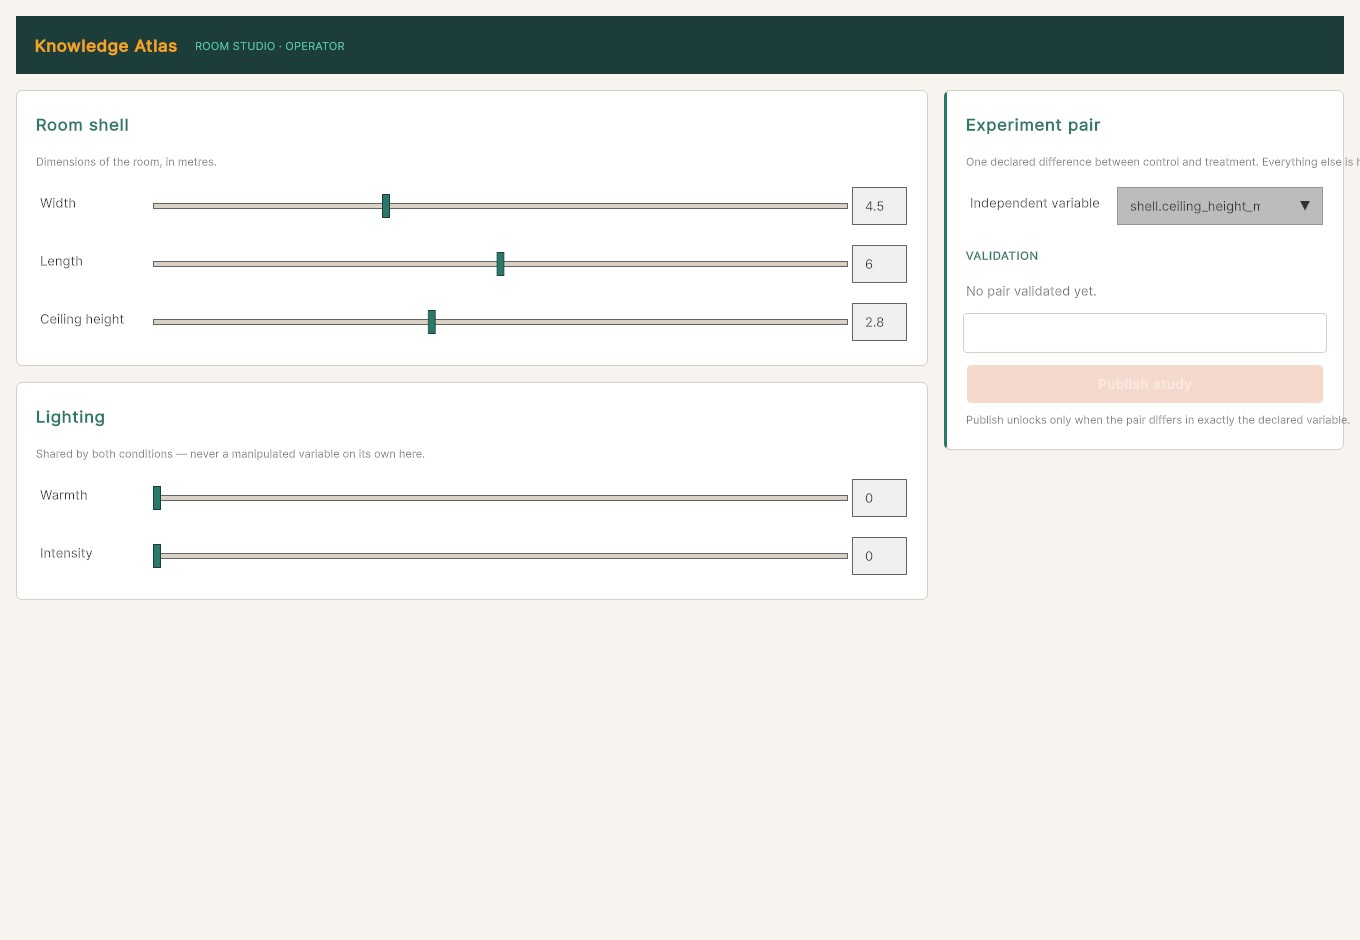
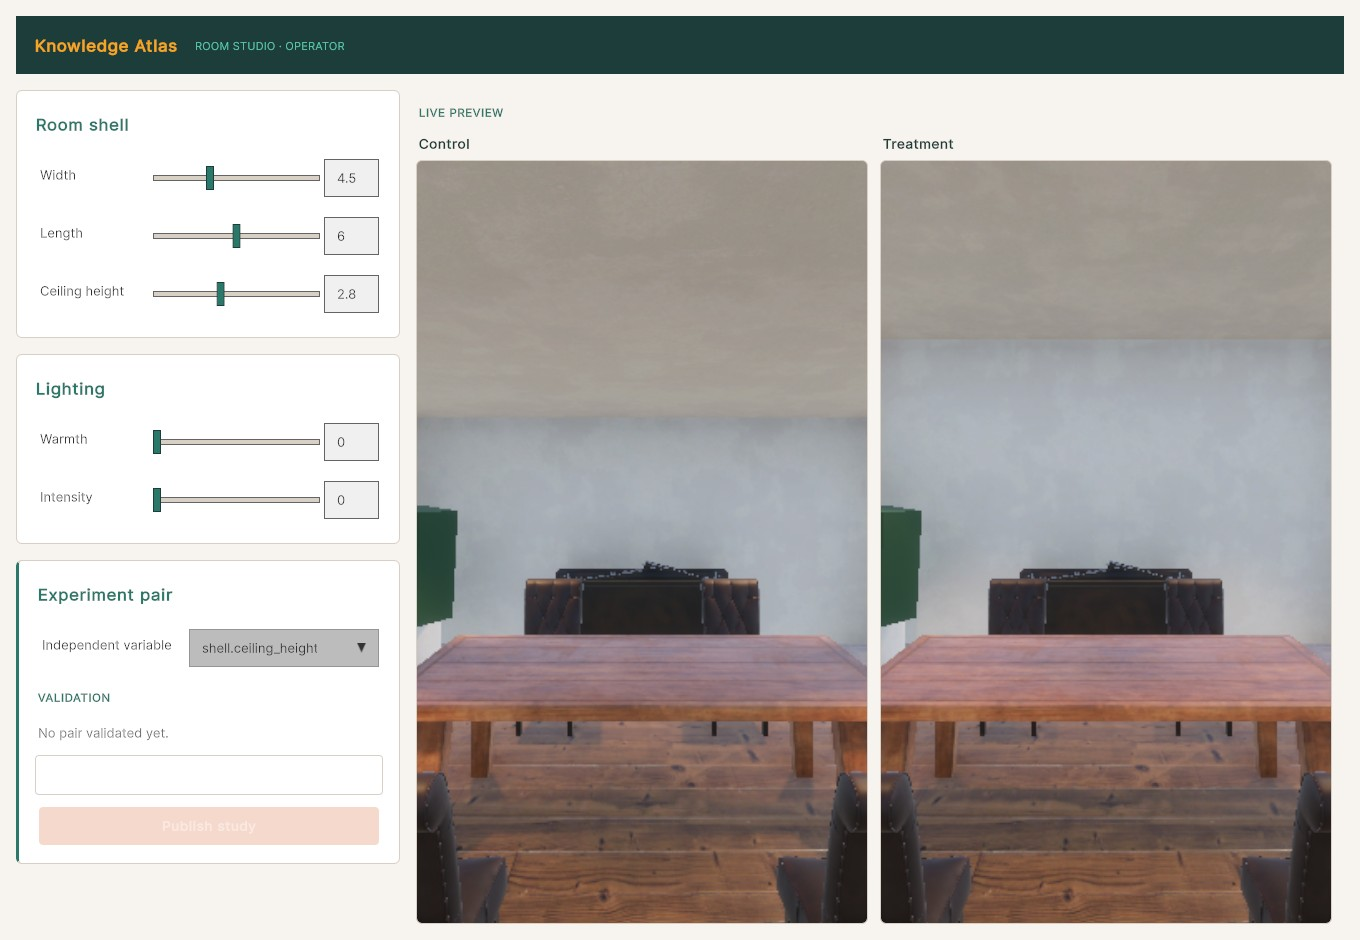
ui: live side-by-side room preview in the operator panel
The panel now shows what the old IMGUI studio did and the foundation was
missing: control | treatment preview panes that render the real generated
rooms, so the operator sees changes live. PreviewRenderer builds a spec on
its own layer + camera -> RenderTexture; the panel only displays the RTs
(SetPreviews), staying a pure view. Layout reflows to a fixed control rail +
a flex preview column. Previews drop the directional-shadow (HDRP allows one
directional shadow scene-wide; two live rooms would fight the atlas) — spot
shadows still ground them. Play-mode capture proves it renders; EditMode 92/92.

diff --git a/unity/Assets/RoomGen/UI/Operator/PreviewRenderer.cs b/unity/Assets/RoomGen/UI/Operator/PreviewRenderer.cs
@@ -1,0 +1,76 @@
+using RoomGen.Contracts;
+using RoomGen.Generation;
+using UnityEngine;
+
+namespace RoomGen.UI
+{
+    /// <summary>
+    /// Renders one RoomSpec to a RenderTexture for an operator preview pane: a generator + a camera on
+    /// a dedicated layer, rendered on demand. Two of these (control + treatment) drive the side-by-side
+    /// live preview — the panel VIEW stays pure and only displays the textures.
+    ///
+    /// This is the composition point where the UI surface meets the generator (E1). It uses the
+    /// generator directly for a responsive live feed rather than round-tripping screenshots through the
+    /// seam; if strict lane-purity is wanted later it can move to an integration assembly without
+    /// changing the panel. Camera pose matches the legacy IMGUI studio's preview.
+    /// </summary>
+    public sealed class PreviewRenderer
+    {
+        public RenderTexture Texture { get; }
+
+        readonly GameObject _root;
+        readonly RoomGenerator _generator;
+        readonly Camera _camera;
+
+        public PreviewRenderer(string label, int layer, int width = 720, int height = 460)
+        {
+            Texture = new RenderTexture(width, height, 24, RenderTextureFormat.ARGB32)
+            {
+                name = label + " Preview RT",
+                antiAliasing = 2
+            };
+            Texture.Create();
+
+            _root = new GameObject("Preview [" + label + "]");
+            var genGo = new GameObject("Generator");
+            genGo.transform.SetParent(_root.transform, false);
+            _generator = genGo.AddComponent<RoomGenerator>();
+            _generator.SetGeneratedLayer(layer);
+
+            var camGo = new GameObject("Camera");
+            camGo.transform.SetParent(_root.transform, false);
+            _camera = camGo.AddComponent<Camera>();
+            _camera.cullingMask = 1 << layer;          // see only this preview's room
+            _camera.targetTexture = Texture;
+            _camera.clearFlags = CameraClearFlags.SolidColor;
+            _camera.backgroundColor = new Color(0.055f, 0.06f, 0.065f);
+            _camera.fieldOfView = 72f;
+            _camera.nearClipPlane = 0.05f;
+            _camera.farClipPlane = 25f;
+            _camera.transform.position = new Vector3(0f, 1.58f, 2.48f);
+            _camera.transform.LookAt(new Vector3(0f, 1.32f, -0.55f));
+        }
+
+        /// <summary>Rebuild the room from the spec and repaint the texture.</summary>
+        public void Render(RoomSpec spec)
+        {
+            _generator.Build(spec);
+
+            // HDRP allows only ONE shadow-casting directional light across the whole scene, but the
+            // studio shows two rooms (control + treatment) at once, each with a sun. Drop the
+            // directional shadow in previews (the recessed-spot shadows still ground the room) so two
+            // live panes don't fight over the single directional shadow atlas.
+            foreach (var light in _root.GetComponentsInChildren<Light>())
+                if (light.type == LightType.Directional)
+                    light.shadows = LightShadows.None;
+
+            _camera.Render();
+        }
+
+        public void Dispose()
+        {
+            if (_root != null) Object.Destroy(_root);
+            if (Texture != null) { Texture.Release(); Object.Destroy(Texture); }
+        }
+    }
+}

diff --git a/unity/Assets/RoomGen/Tests/PlayMode/OperatorPanelCaptureTests.cs b/unity/Assets/RoomGen/Tests/PlayMode/OperatorPanelCaptureTests.cs
@@ -1,6 +1,7 @@
 using System.Collections;
 using System.IO;
 using NUnit.Framework;
+using RoomGen.Contracts;
 using RoomGen.Testing;
 using RoomGen.UI;
 using UnityEngine;
@@ -22,6 +23,10 @@ namespace RoomGen.Tests.PlayMode
         public IEnumerator Renders_the_operator_panel_to_a_png()
         {
 #if UNITY_EDITOR
+            // This is a rendering capture, not a logic test: tolerate benign HDRP batchmode log noise
+            // (info-queue, atlas warnings) rather than failing on an unexpected engine log line.
+            LogAssert.ignoreFailingMessages = true;
+
             const int w = 1360, h = 940;
             var rt = new RenderTexture(w, h, 24, RenderTextureFormat.ARGB32);
             rt.Create();
@@ -54,6 +59,19 @@ namespace RoomGen.Tests.PlayMode
             var preset = Resources.Load<TextAsset>("RoomGen/dining_room.preset");
             if (preset != null) { vm.LoadPreset(preset.text); OperatorPanelController.Bind(root, vm); }
 
+            // Live preview: build the control + treatment rooms and feed them into the panes.
+            PreviewRenderer previewControl = null, previewTreatment = null;
+            var pairAsset = Resources.Load<TextAsset>("RoomGen/Examples/ceiling-height-pair");
+            if (pairAsset != null)
+            {
+                var pair = RoomJson.Deserialize<ConditionPairSpec>(pairAsset.text);
+                previewControl = new PreviewRenderer("Control", 8);
+                previewTreatment = new PreviewRenderer("Treatment", 9);
+                previewControl.Render(pair.Control);
+                previewTreatment.Render(pair.Treatment);
+                OperatorPanelController.SetPreviews(root, previewControl.Texture, previewTreatment.Texture);
+            }
+
             for (var i = 0; i < 12; i++) yield return null; // let the player loop lay out + paint
 
             var prev = RenderTexture.active;
@@ -78,6 +96,8 @@ namespace RoomGen.Tests.PlayMode
             Object.Destroy(ps);
             rt.Release();
             Object.Destroy(rt);
+            previewControl?.Dispose();
+            previewTreatment?.Dispose();
 
             Assert.Greater(mean, 0.05, "the panel rendered black — paint did not reach the target texture");
 #else

diff --git a/unity/Assets/RoomGen/UI/Operator/OperatorPanelController.cs b/unity/Assets/RoomGen/UI/Operator/OperatorPanelController.cs
@@ -101,6 +101,18 @@ namespace RoomGen.UI
             if (publish != null) publish.SetEnabled(vm.PublishEnabled);
         }
 
+        /// <summary>
+        /// Point the two live-preview panes at the control/treatment RenderTextures (from
+        /// PreviewRenderer). The panel only DISPLAYS them — it neither owns the cameras nor the rooms.
+        /// </summary>
+        public static void SetPreviews(VisualElement root, RenderTexture control, RenderTexture treatment)
+        {
+            var c = root.Q<VisualElement>("control-preview");
+            if (c != null && control != null) c.style.backgroundImage = Background.FromRenderTexture(control);
+            var t = root.Q<VisualElement>("treatment-preview");
+            if (t != null && treatment != null) t.style.backgroundImage = Background.FromRenderTexture(treatment);
+        }
+
         static IEnumerable<string> ErrorLines(OperatorPanelViewModel vm)
         {
             foreach (var e in vm.Errors)
